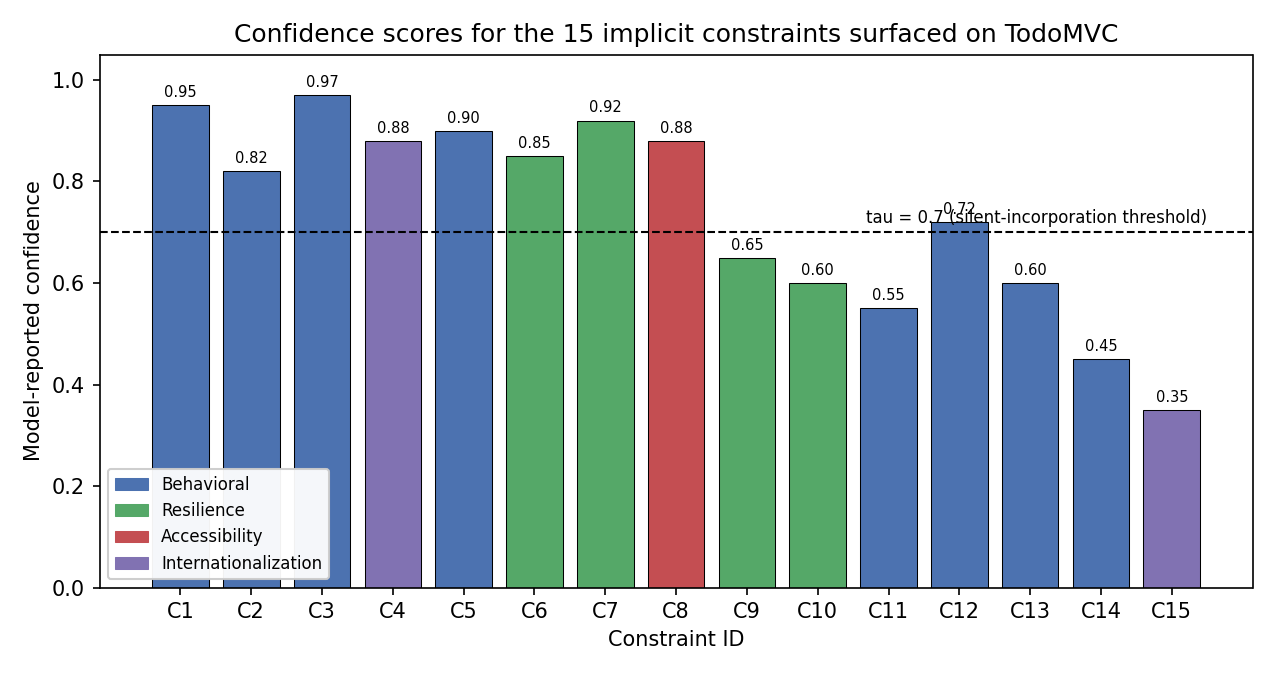
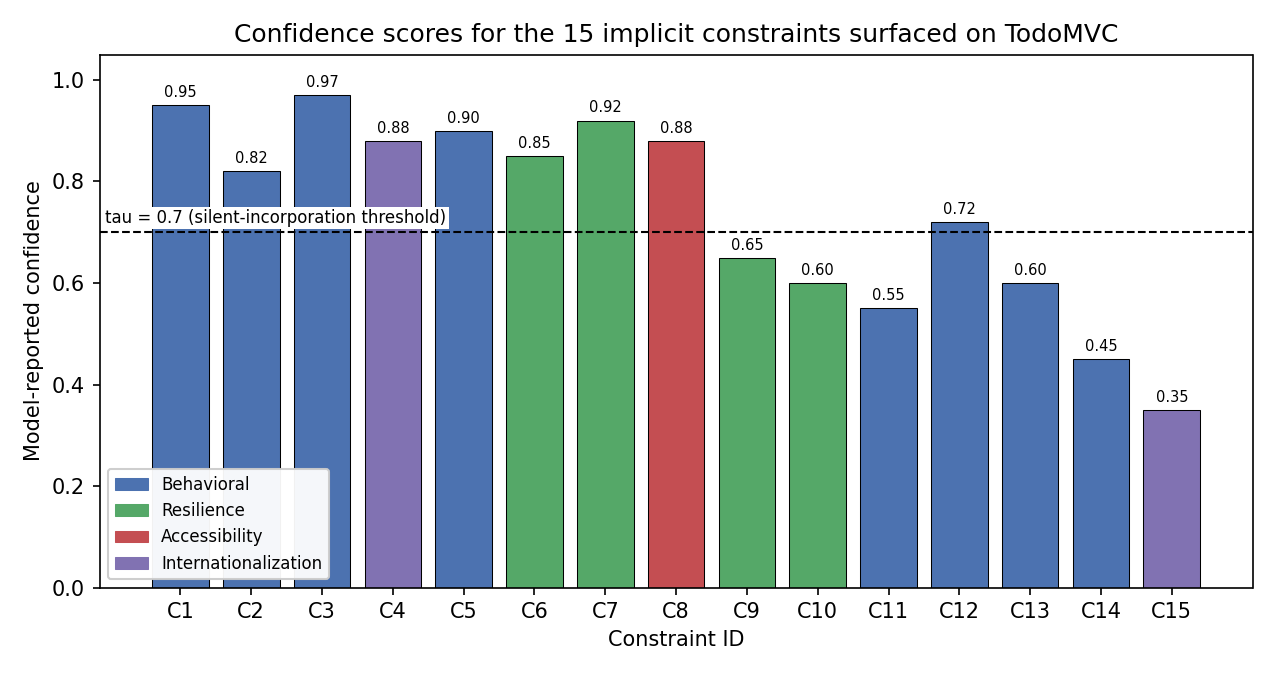
fix: Fig 1 tau=0.7 annotation collision (v23 review) — left-anchored with white bbox

Changed region(s): [[0.0918, 0.28, 0.3671, 0.3422], [0.6729, 0.3111, 0.9482, 0.3422]]

diff --git a/figures/confidence_histogram.py b/figures/confidence_histogram.py
@@ -70,13 +70,19 @@ def main() -> int:
     bars = ax.bar(ids, vals, color=colors, edgecolor="black", linewidth=0.5)
     ax.axvline(x=-0.5, color="none")  # placeholder for clean axis
     ax.axhline(y=0.7, color="black", linestyle="--", linewidth=1.0)
+    # tau=0.7 annotation anchored on the LEFT (at the y-axis edge of the plot,
+    # in axes coordinates), with a white background, so it cannot collide with
+    # any bar (per v23 review fix — previous right-edge placement clipped C15
+    # and overprinted the title).
     ax.text(
-        len(ids) - 0.5,
-        0.71,
+        0.005,
+        0.71 / 1.05,
         "tau = 0.7 (silent-incorporation threshold)",
-        ha="right",
+        ha="left",
         va="bottom",
         fontsize=8,
+        transform=ax.transAxes,
+        bbox=dict(facecolor="white", edgecolor="none", pad=1.0),
     )
 
     ax.set_ylim(0, 1.05)
